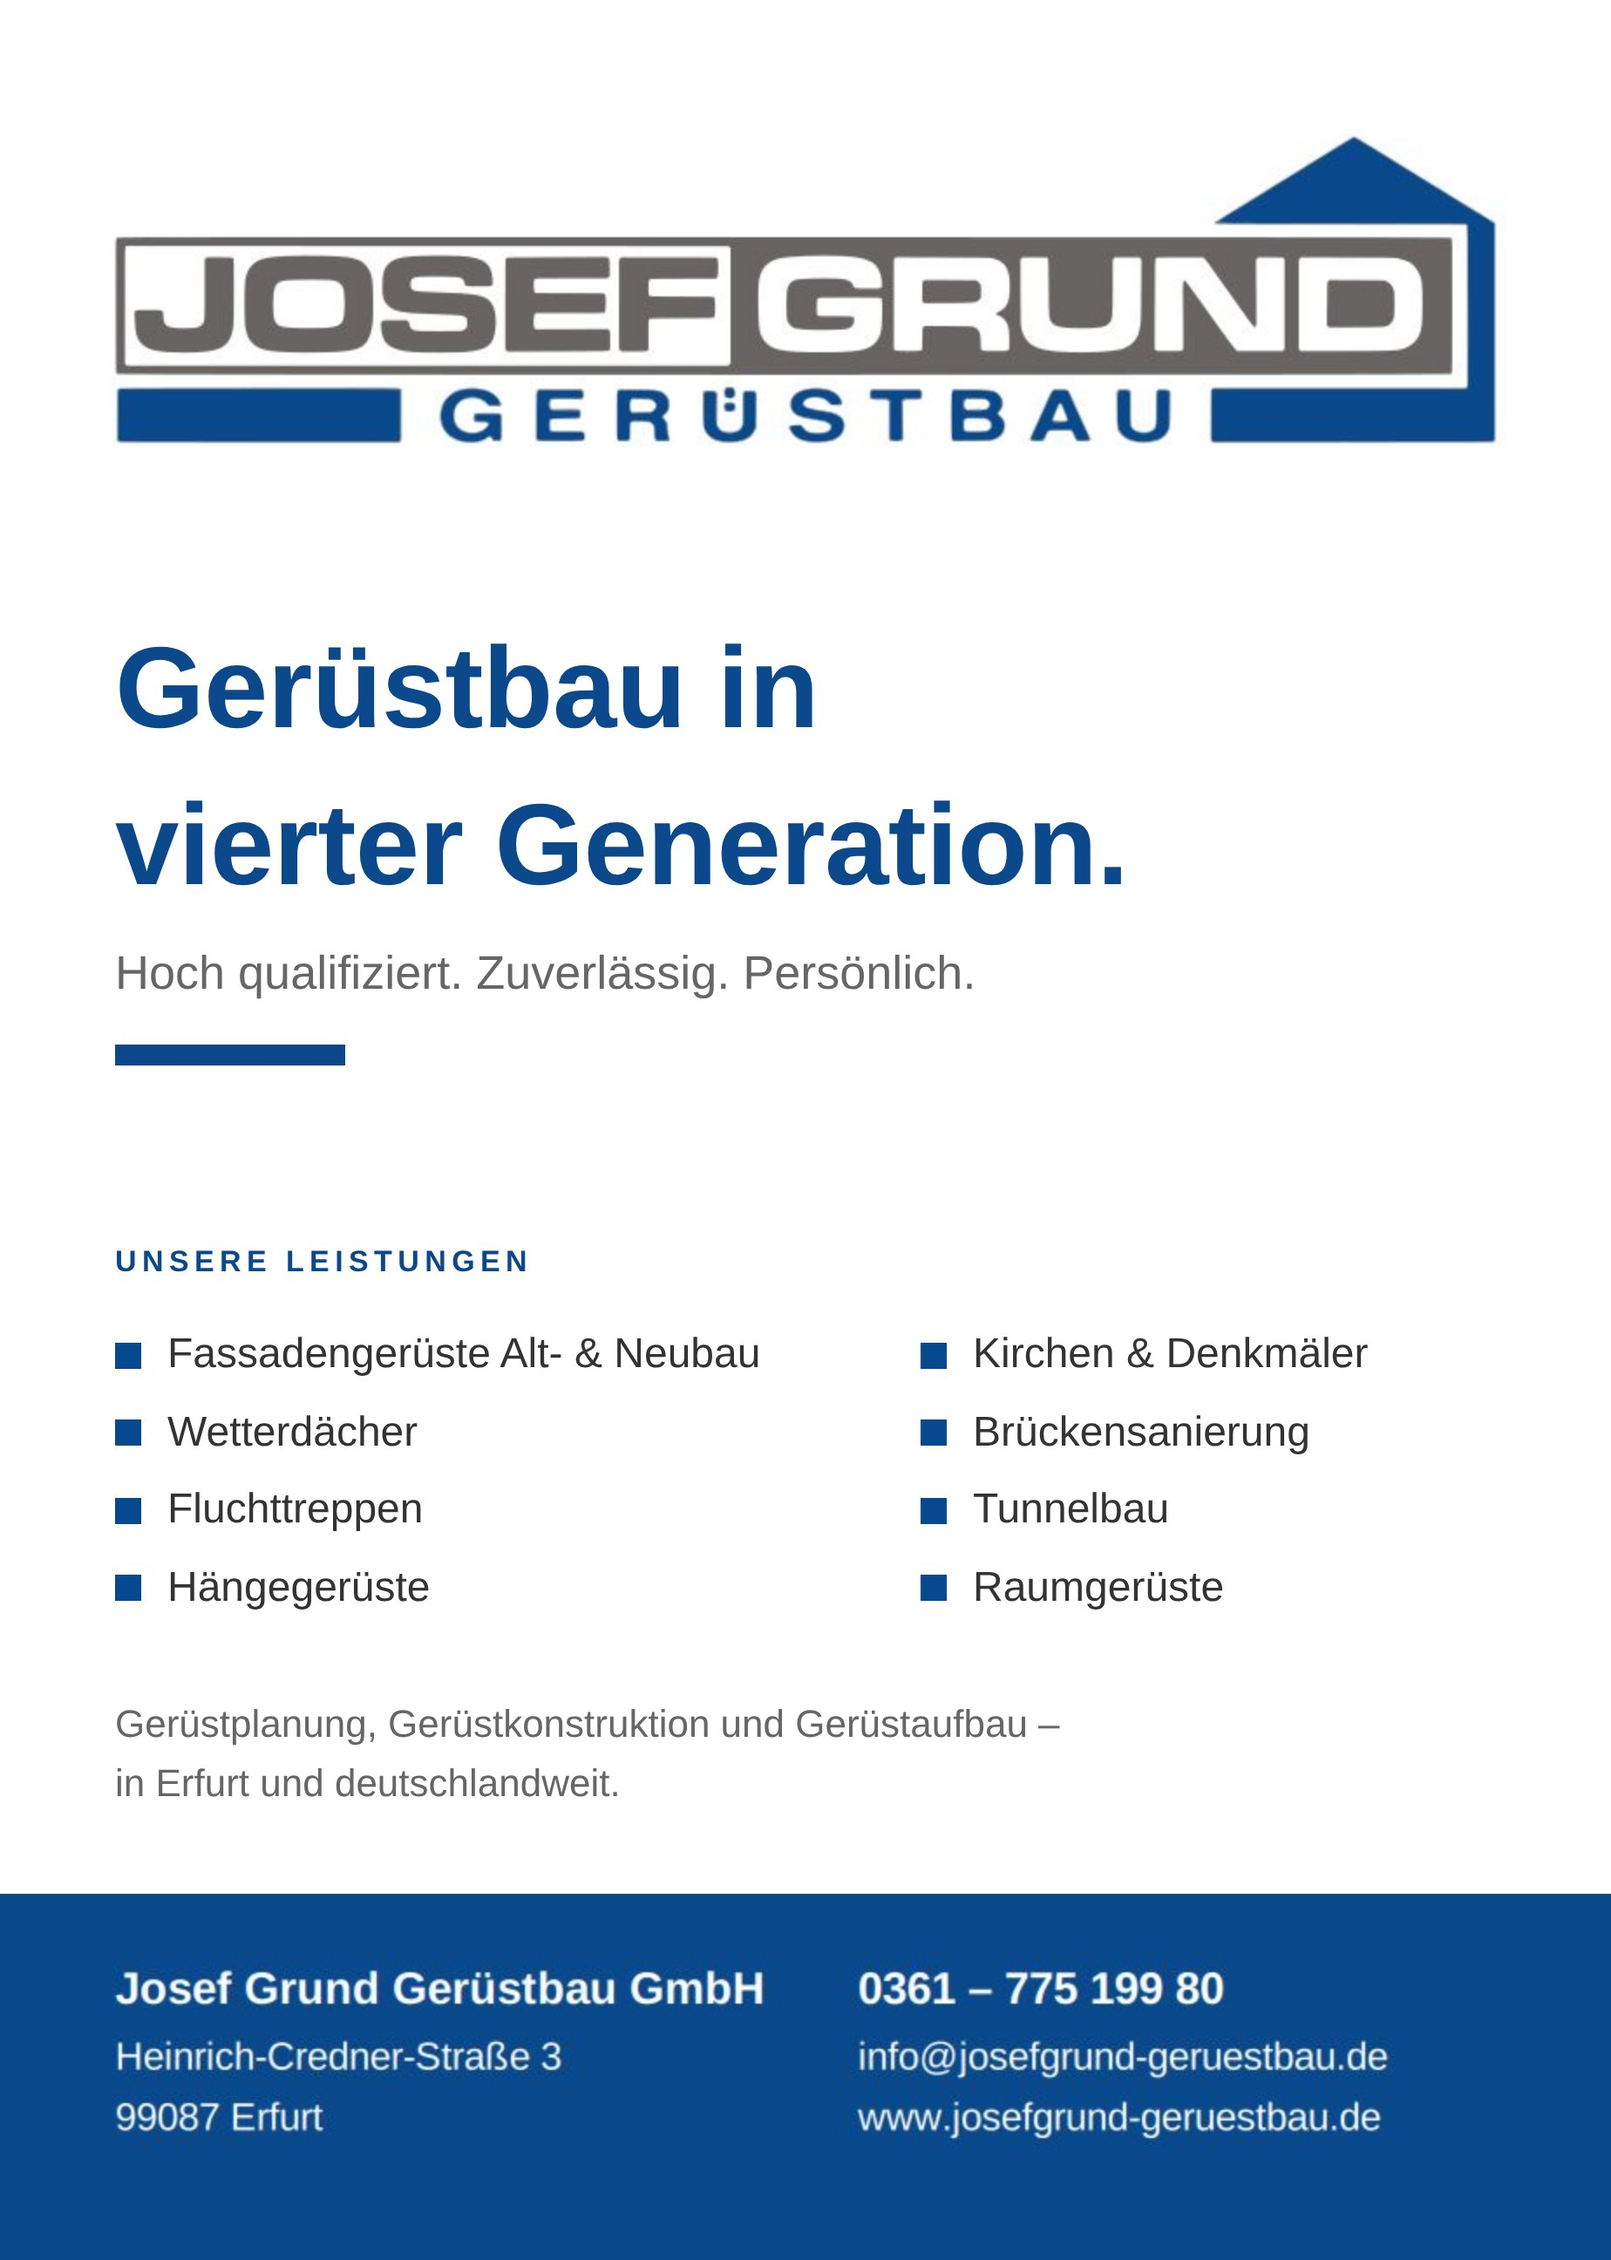
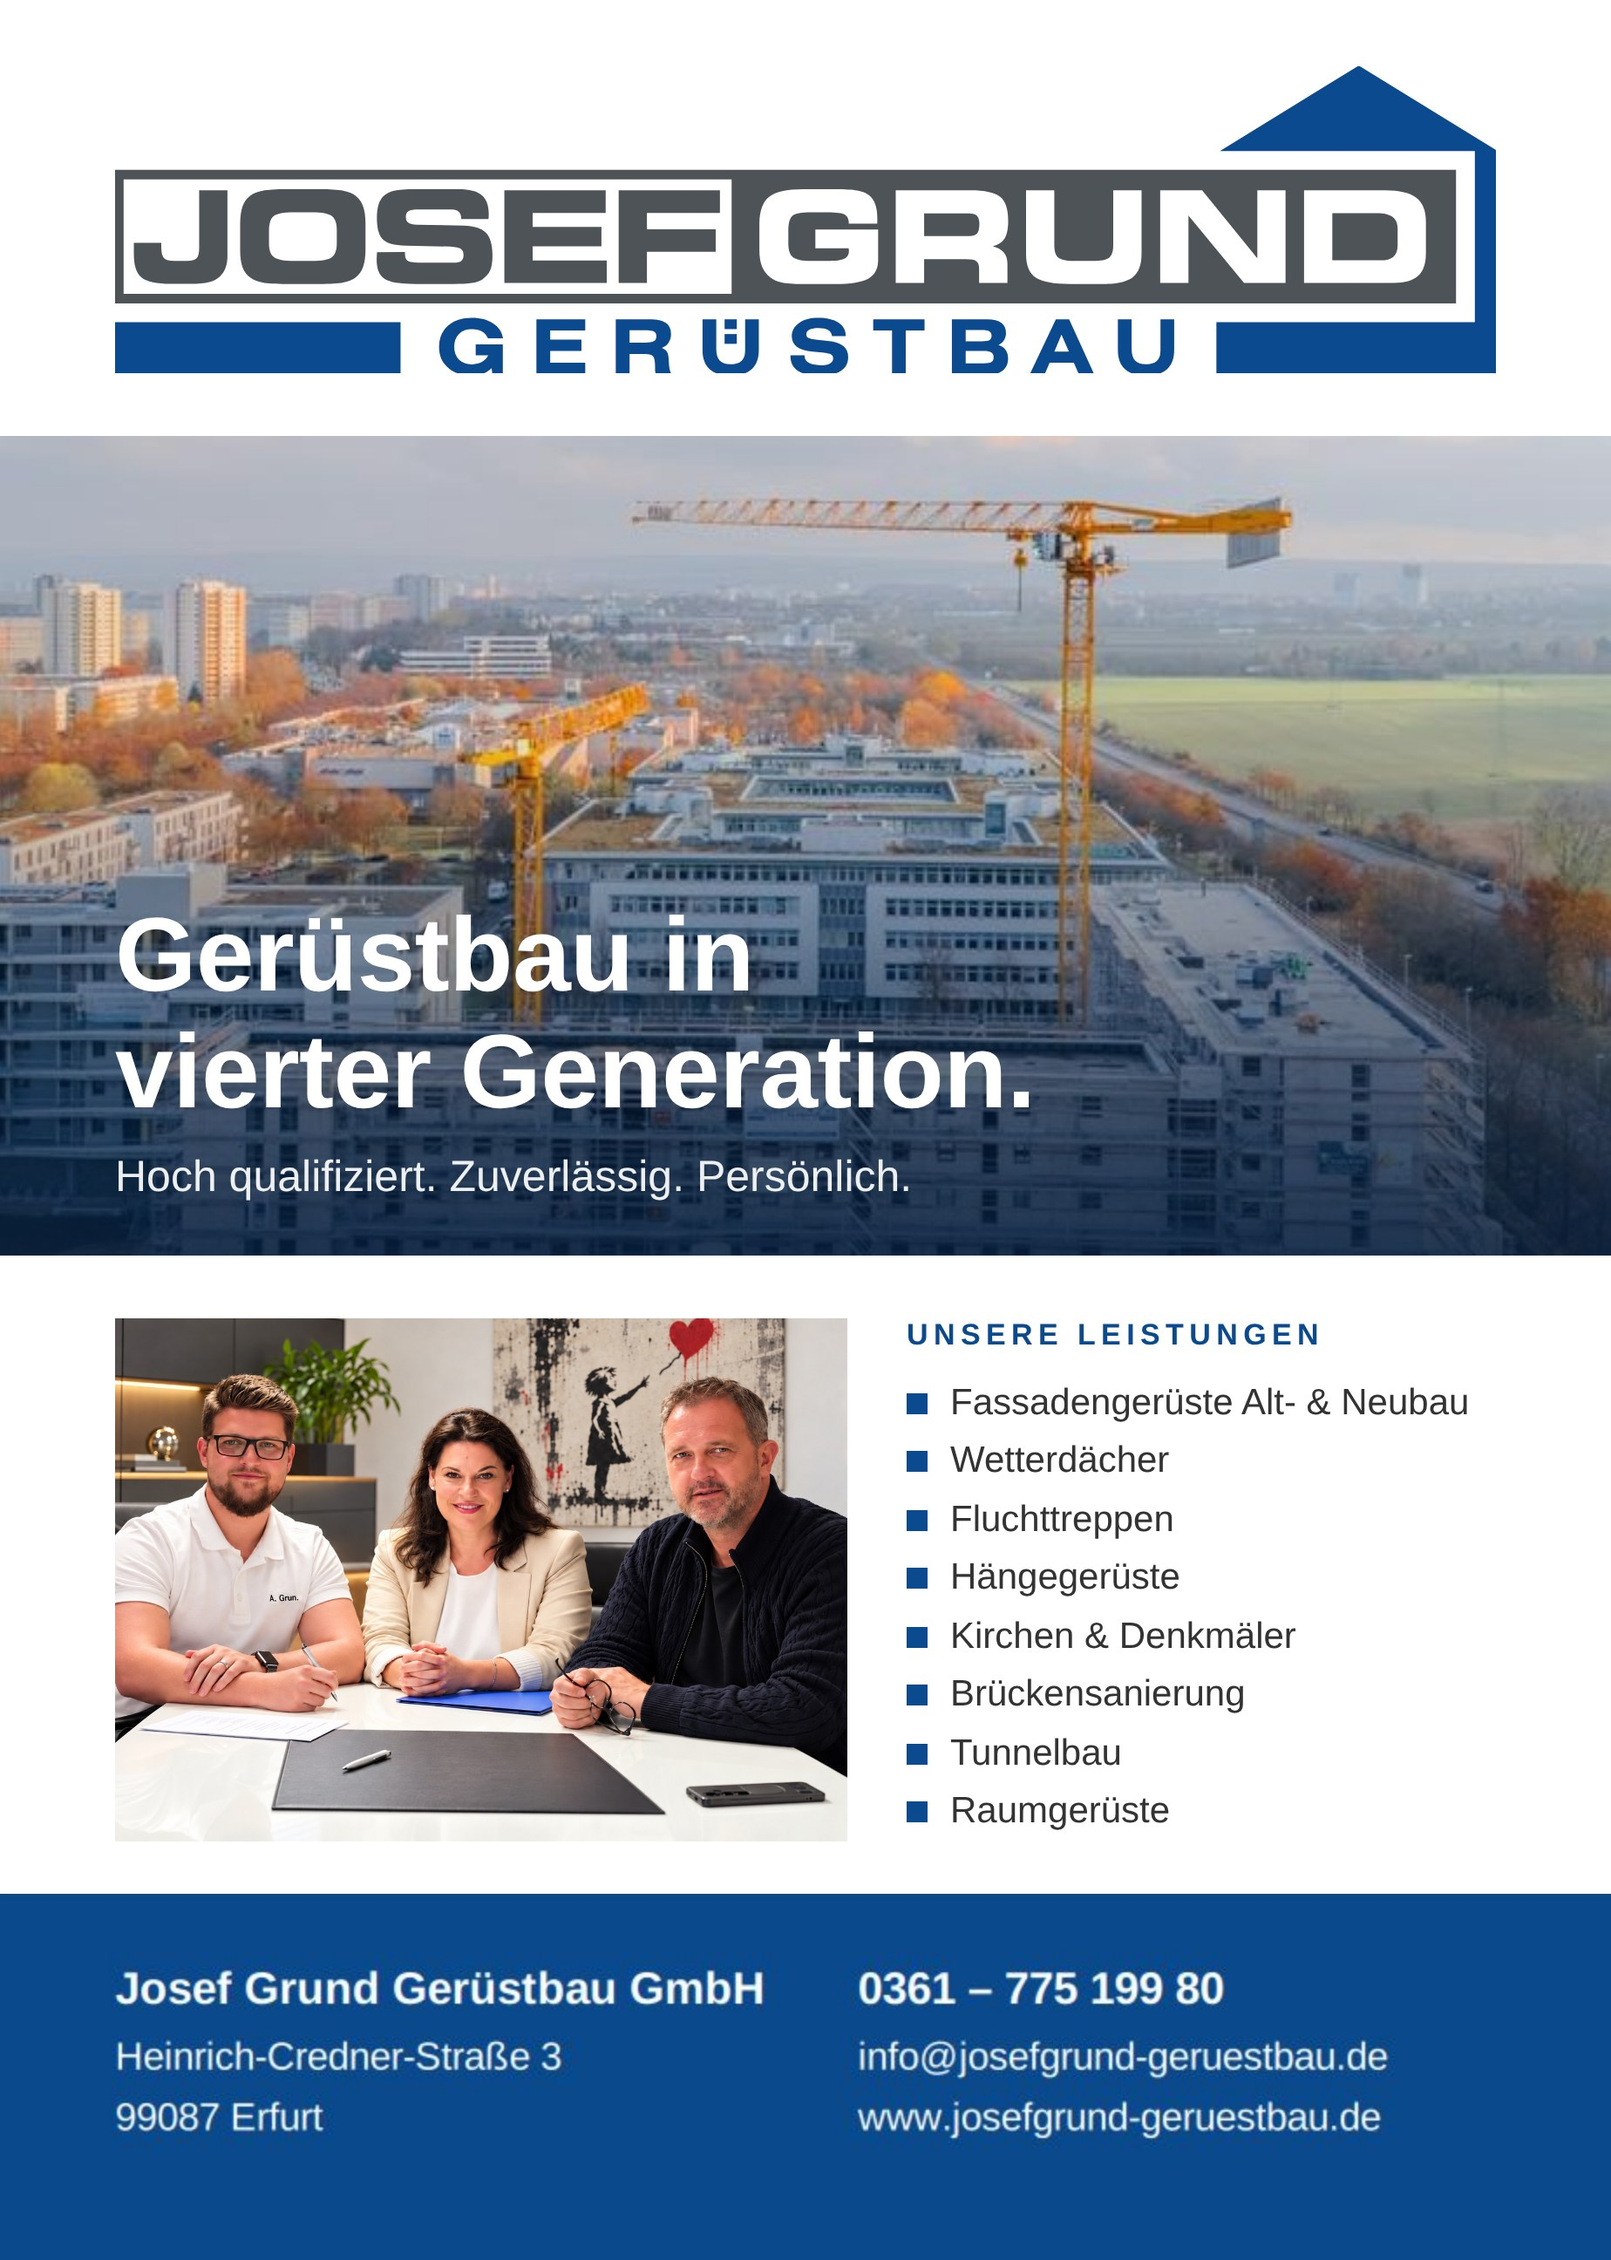
Spieltagsheft 11.10.2026

diff --git a/2026-10-11/index.html b/2026-10-11/index.html
@@ -133,6 +133,7 @@ footer{padding:24px 20px 40px;font-size:12px;color:var(--n600);background:var(--
 @media (min-width:700px){.sheet{padding:56px 32px}.cover{min-height:min(100svh,1075px);padding:32px}}
 /* Design: nur Bildschirm, die PDF (@media print) bleibt unverändert */
 @media screen{
+.ad-full .adwrap{max-width:520px;margin:0 auto}
 .eyebrow,.cover .pres small{color:var(--orange-k)}
 .partner .eyebrow,.band .eyebrow{color:var(--orange-hell)}
 .facts small,.facts .fine,.gcard figcaption,th,.ad-label{color:var(--n600)}
@@ -306,7 +307,7 @@ body::before{content:"";position:absolute;top:0;bottom:0;left:50%;width:760px;ma
  <table class="staff"><tbody><tr><td>Marko Fliege</td><td>Kaufmännischer Leiter</td></tr><tr><td>André Grenzdörffer</td><td>Head of Partnerships</td></tr><tr><td>Kim Mauermann</td><td>Managerin Profiteam</td></tr><tr><td>Anna Metzdorf</td><td>Managerin Damenteam</td></tr><tr><td>Valentin Kern</td><td>Leiter Soziales Engagement</td></tr><tr><td>Nick Schmoock</td><td>Spieltagskoordinator</td></tr><tr><td>Aaron Rommeley</td><td>Nachwuchskoordinator</td></tr></tbody></table>
  <div class="endlogo"><img src="https://basketball-loewen.github.io/2026-10-11/img/basketball-loewen-logo-color.svg" width="600" height="565" loading="lazy" decoding="async" alt="Basketball Löwen"></div>
 </section>
-<figure class="ad ad-full"><span class="ad-label">Anzeige</span><div class="adwrap"><a href="https://www.josefgrund-geruestbau.de" target="_blank" rel="noopener"><img src="https://basketball-loewen.github.io/2026-10-11/img/ad_Grund.jpg" width="1848" height="2592" loading="lazy" decoding="async" alt="Anzeige Josef Grund Gerüstbau"></a></div></figure>
+<figure class="ad ad-full"><span class="ad-label">Anzeige</span><div class="adwrap"><a href="https://www.josefgrund-geruestbau.de" target="_blank" rel="noopener"><img src="https://basketball-loewen.github.io/2026-10-11/img/ad_Grund.jpg" width="1848" height="2592" loading="lazy" decoding="async" alt="Anzeige Josef Grund Gerüstbau"></a><a class="hot" href="tel:+4936177519980" aria-label="Anrufen" style="left:52.5%;top:86.2%;width:35.1%;height:3.3%"></a><a class="hot" href="mailto:info@josefgrund-geruestbau.de" aria-label="E-Mail senden" style="left:52.5%;top:89.5%;width:35.1%;height:3.0%"></a><a class="hot" href="https://www.josefgrund-geruestbau.de" aria-label="Website" style="left:52.5%;top:92.5%;width:35.1%;height:3.2%"></a></div></figure>
 <section class="sheet" id="gast">
  <p class="eyebrow">Gastmannschaft</p>
  <h2>Porsche BBA <span class="kw">Ludwigsburg</span>.</h2>
